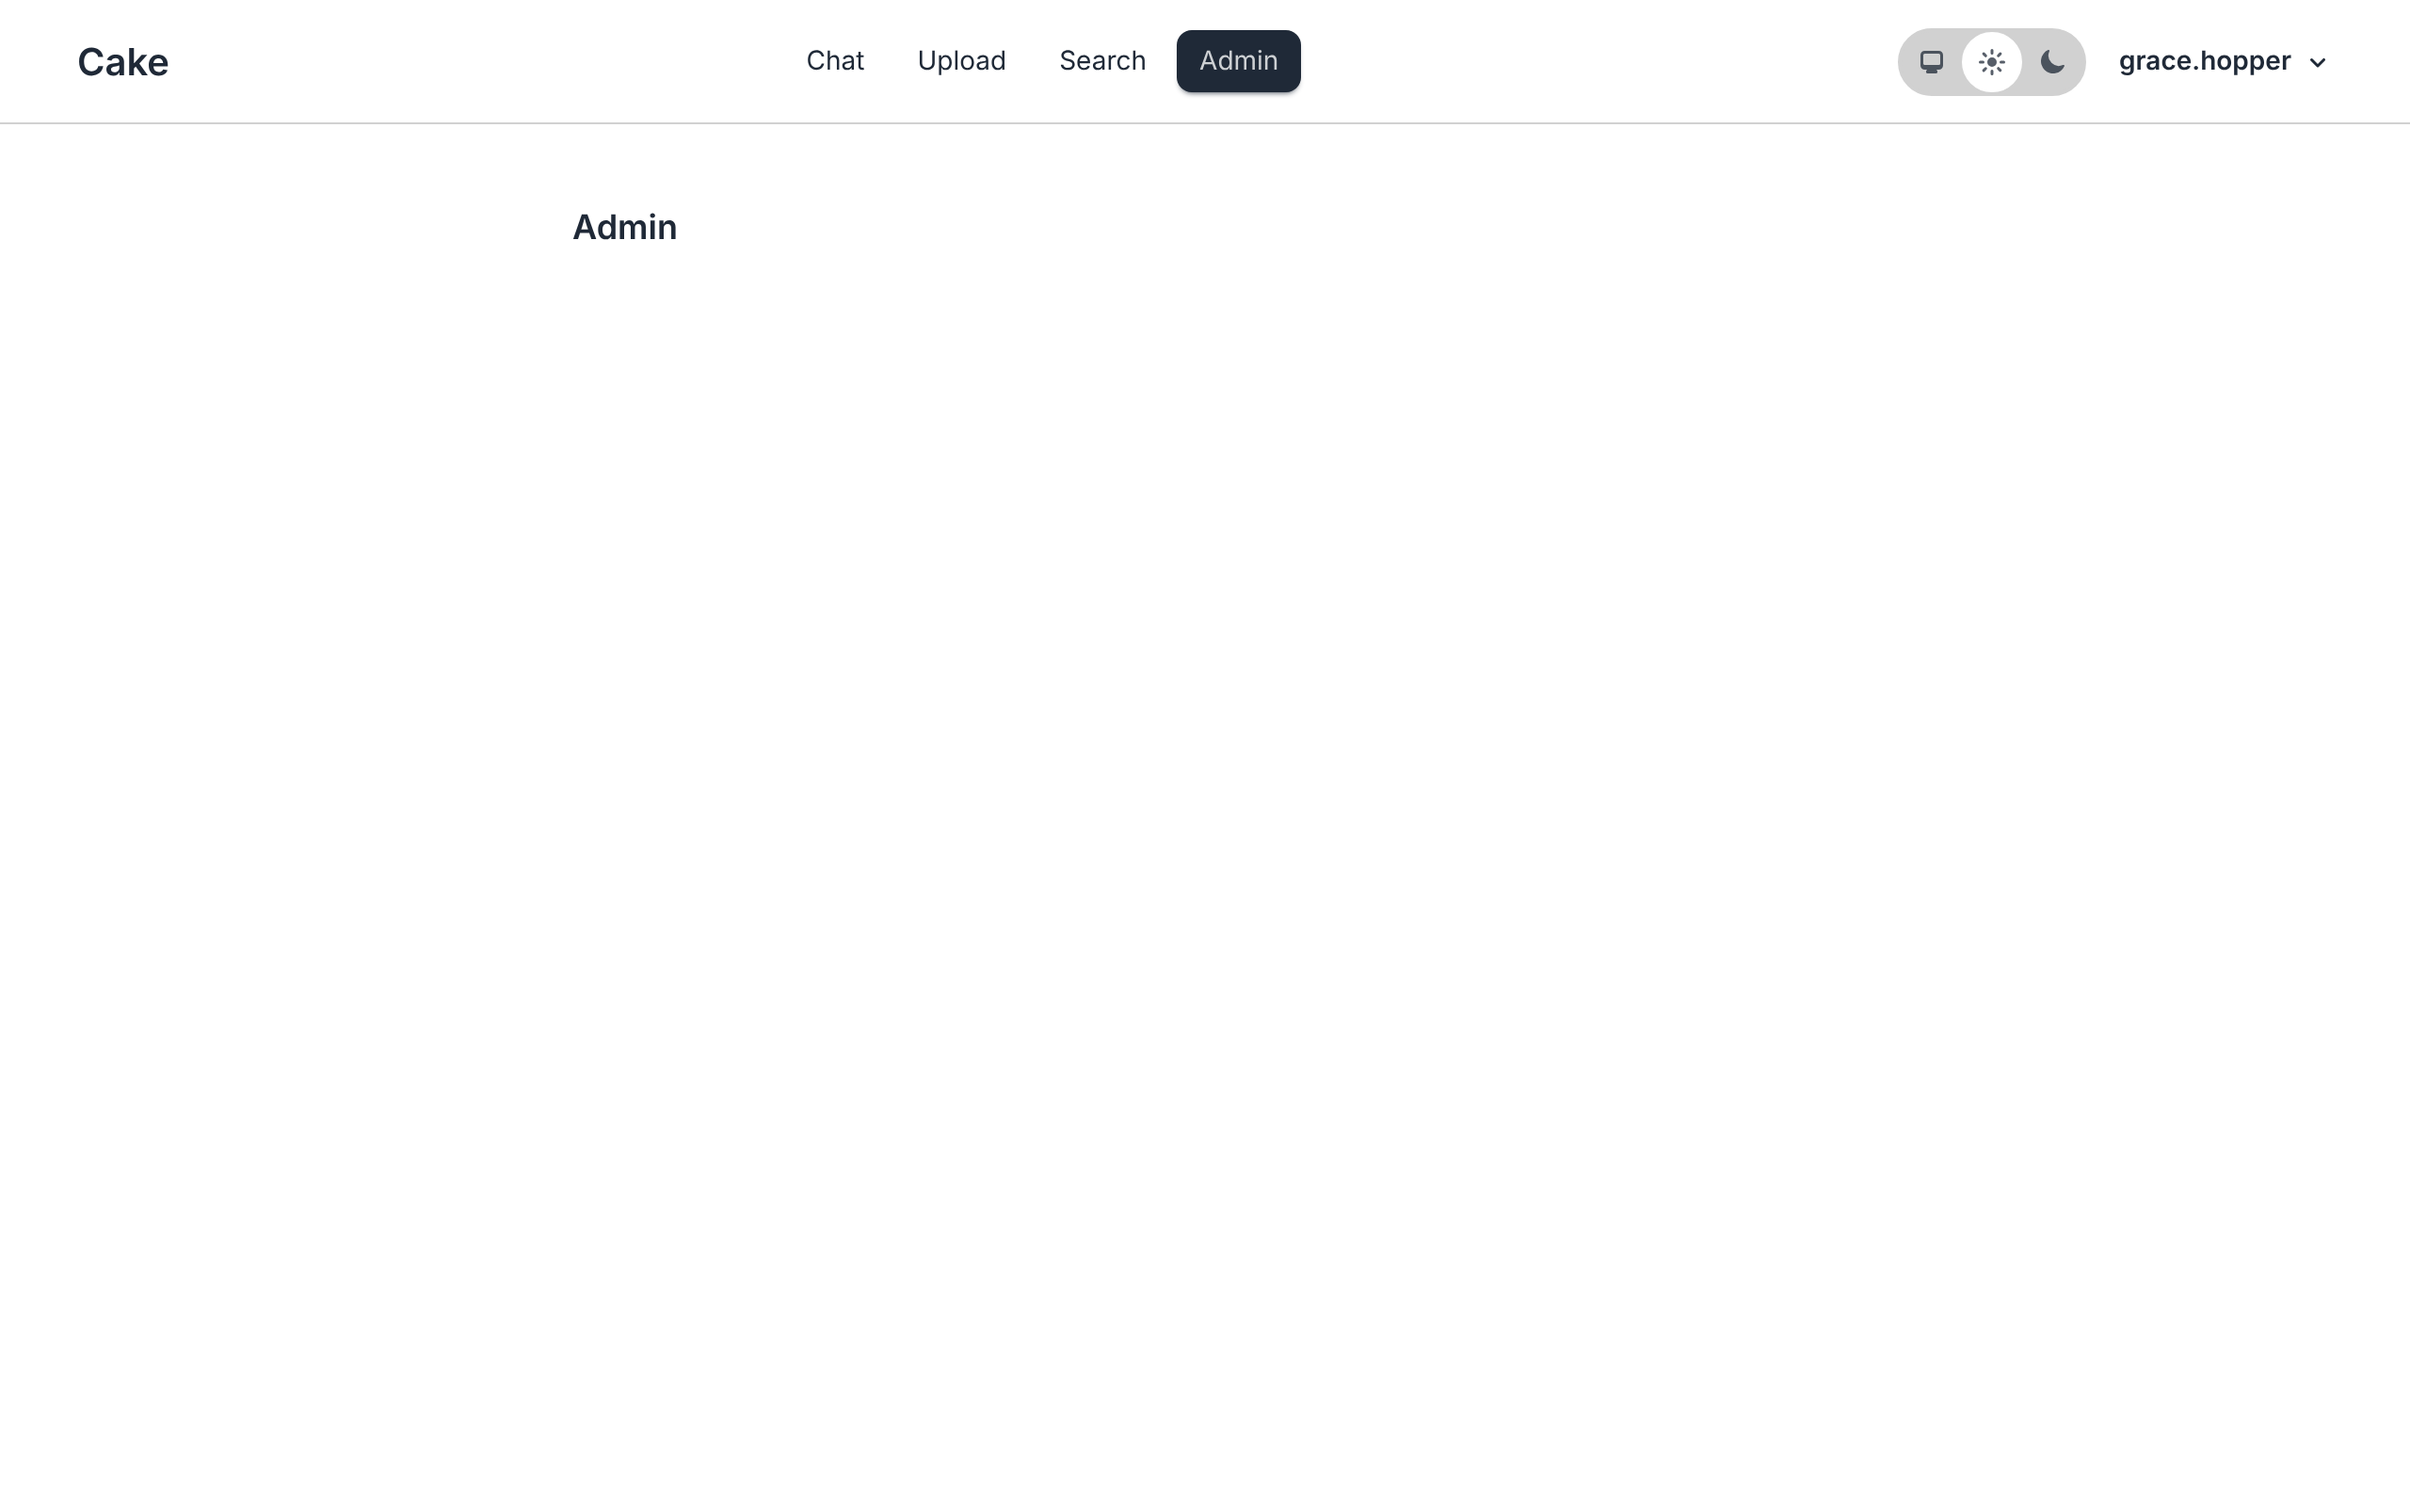
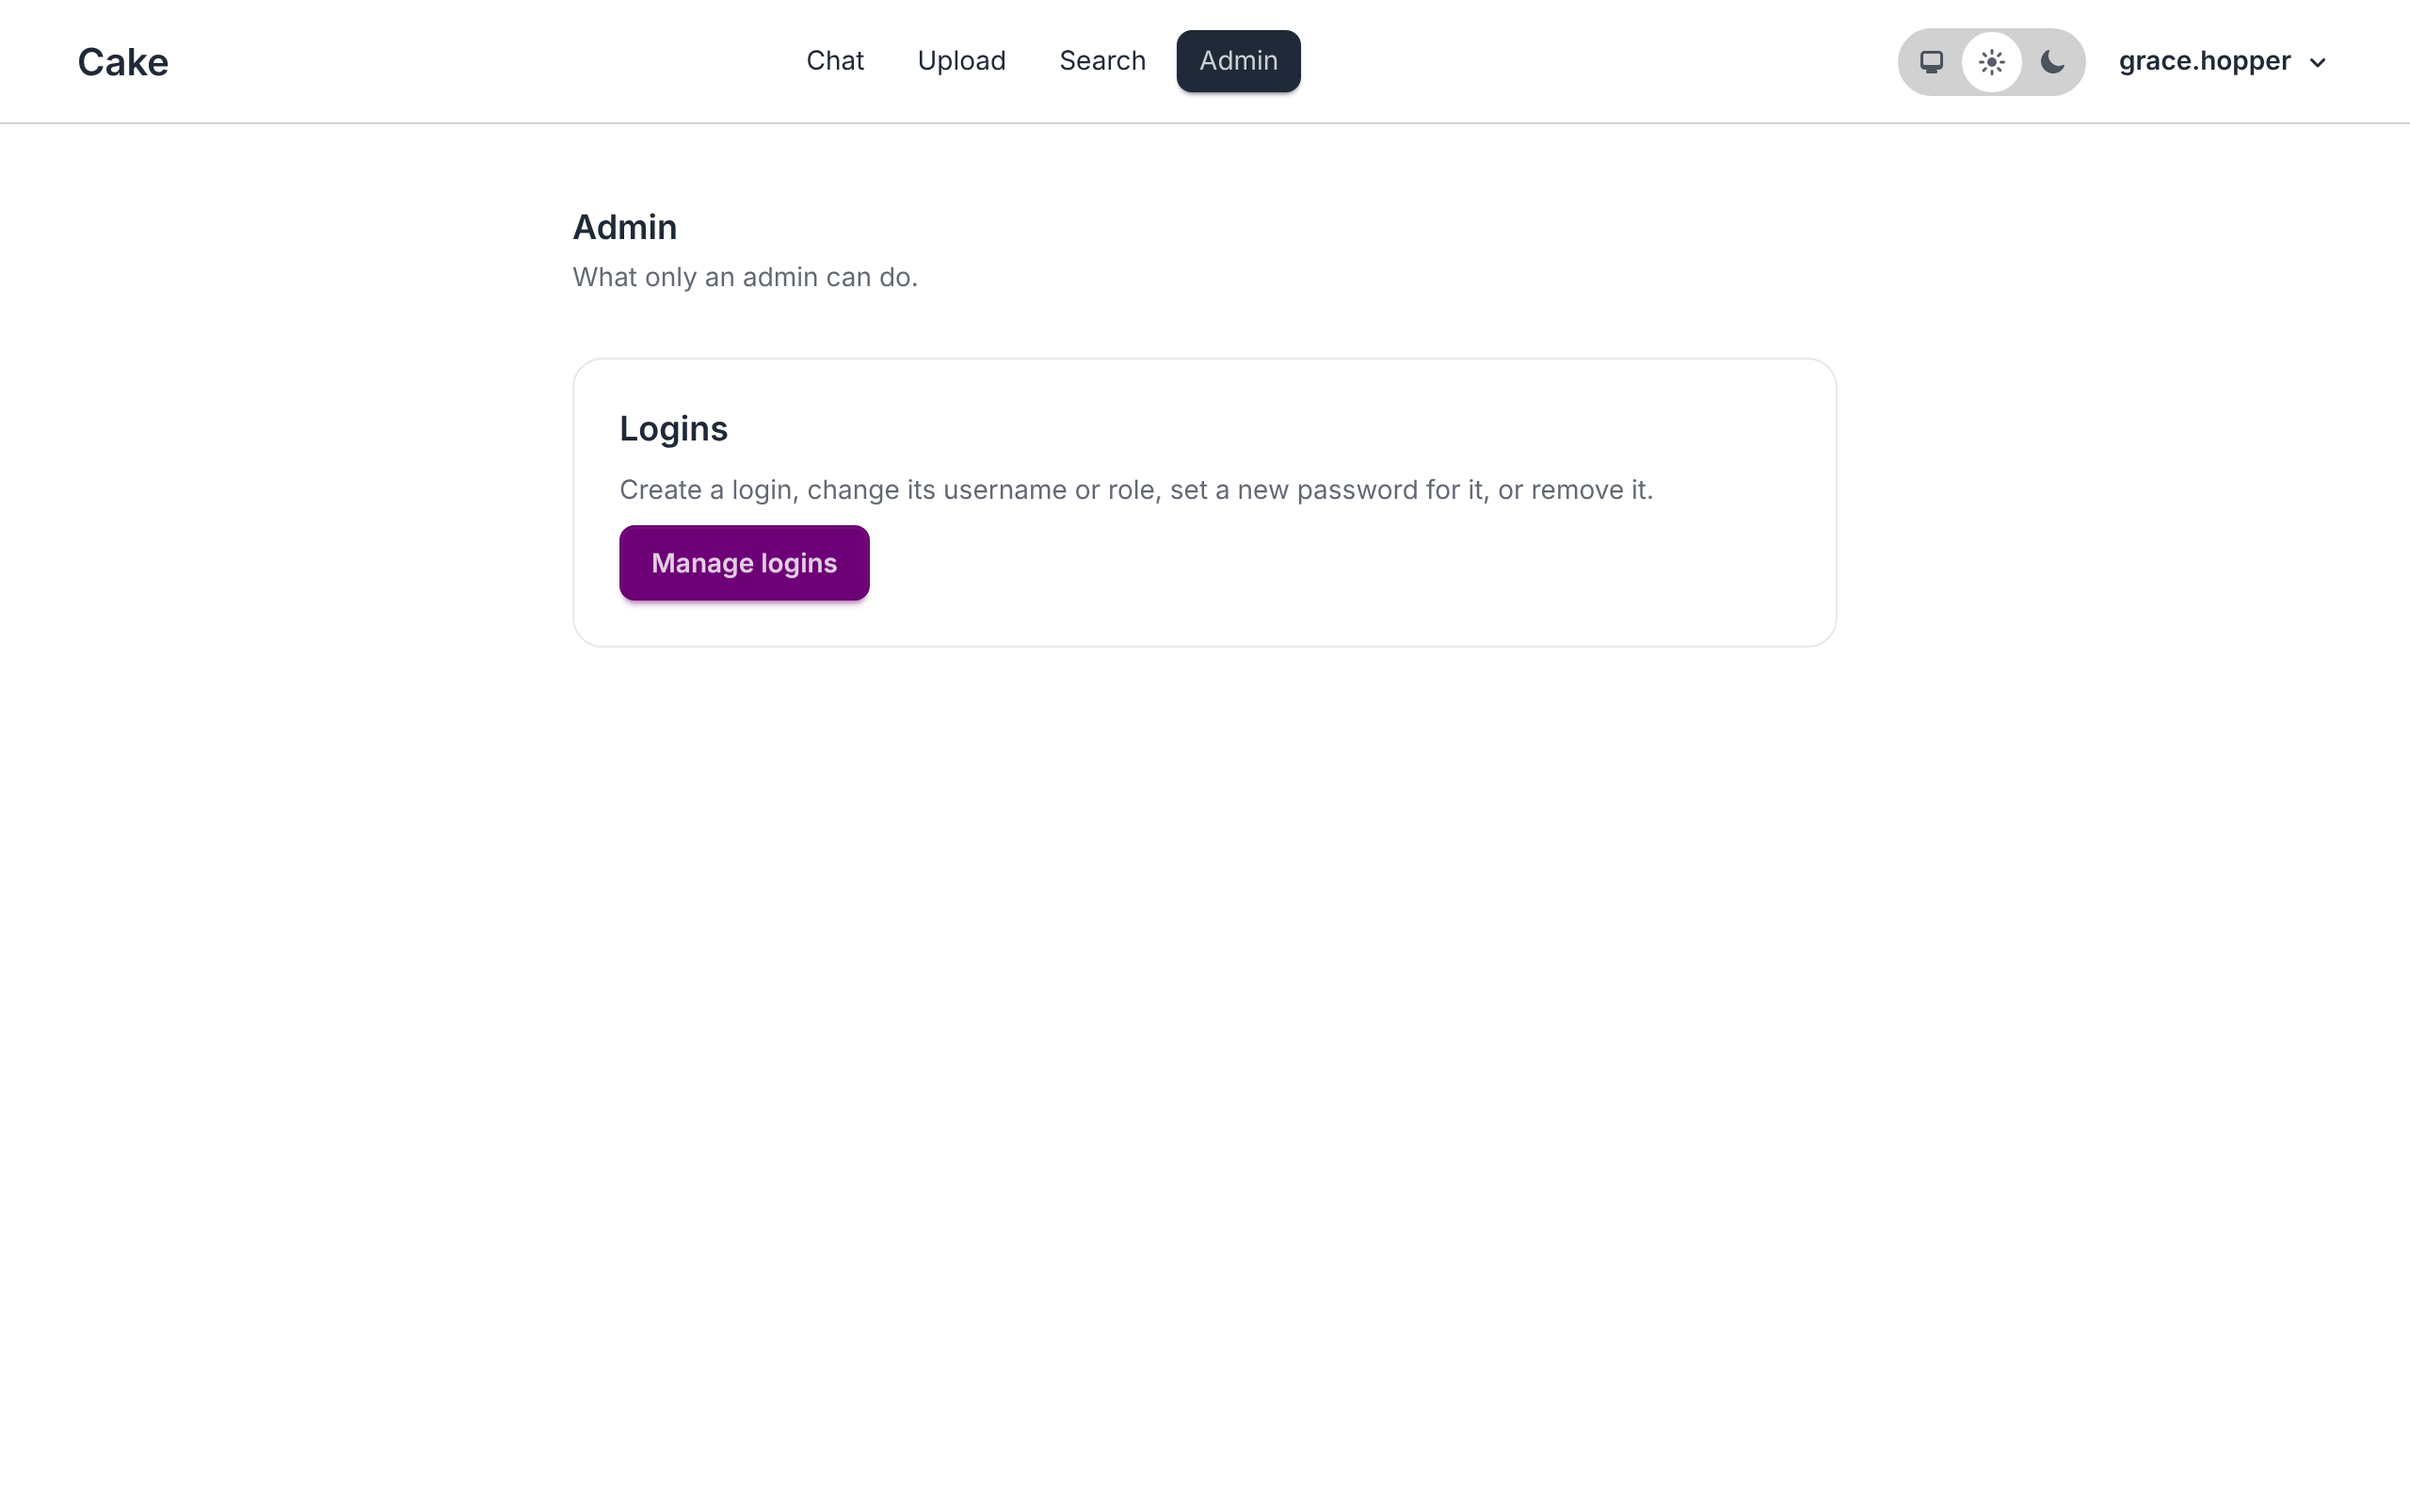
Admin panel: side by side with the reference screenshots (#376, box 7, consistency)
Each screen was put beside `docs/ui-reference/` in both themes and at both
widths. What was checked, and holds:

- width from `Layouts.app` alone: the list in the wide column, the forms,
  a login's page and the landing page in the default one;
- one `header/1` per screen, first in the page;
- one primary button per view ("New login", "Save login", "Set
  password", "Edit", "Manage logins"); the rest `btn-ghost` or
  `btn-outline`; Delete is `btn-error` behind `data-confirm`;
- the list is `table/1`, a login's fields are `list/1`, the landing
  page's entry is a card as the search results are, the list's refusal is
  `notice/1`, and field errors are `input/1`'s own;
- roles are `badge badge-soft` with a theme colour; no palette colour and
  no spacing outside layout utilities; no private copy of a component.

The list is never empty (whoever is looking at it is on it), so it has no
`empty_state/1`.

The landing page changed in box 5, and it is the page the `shell-admin`
reference shots show, so those four are retaken, the same way as before
(an admin made with create_user/1, 1280x800 and 390x844 at twice the
density). The reference README says which page they show.

`.claude/rules/front-end.md` gains the one convention this screen adds: a
table too wide for a phone drops columns with a `class` on the `:col`.

Claude-Session: https://claude.ai/code/session_01MfCjhm1FfnNUSGeztPXV39

Changed region(s): [[0.25, 0.2812, 0.6875, 0.4062], [0.3125, 0.1562, 0.3438, 0.1875]]

diff --git a/.claude/rules/front-end.md b/.claude/rules/front-end.md
@@ -31,7 +31,7 @@ Screens are built by different sessions at different times, and they have to loo
 - **Width.** Content goes straight into `Layouts.app`, which renders it into one column. A form or a page of prose uses the default; a table of records or the chat asks for `width={:wide}`. A screen does not set a width of its own. The chat, upload and account pages still wrap their content in one from before this rule; #376 to #380 remove those as they rebuild each screen.
 - **Heading.** One `<.header>` per screen, first in the page. Its `:subtitle` and `:actions` slots hold the line under it and the buttons beside it.
 - **Buttons.** One primary button per view (`<.button variant="primary">`), for its main action. Secondary actions are `btn btn-ghost` or `btn btn-outline`. A destructive action is `btn btn-error`, behind a confirmation (`data-confirm`).
-- **Records and results.** Tabular records (documents, users) are a `<.table>`; one record's fields are a `<.list>`. Content results (search hits, candidate documents) are cards, as the search screen does them: `card card-border bg-base-100`, a `card-title`, then the detail.
+- **Records and results.** Tabular records (documents, users) are a `<.table>`; one record's fields are a `<.list>`. A table that is too wide for a phone drops columns there, with a `class` on the `:col` (`hidden sm:table-cell`), and keeps the way to the record's own page; it does not scroll sideways. Content results (search hits, candidate documents) are cards, as the search screen does them: `card card-border bg-base-100`, a `card-title`, then the detail.
 - **States.** Nothing to show yet is `<.empty_state>`; work under way is `<.working>`; a message that is part of the page is `<.notice>` with its `kind` (`:info`, `:success`, `:warning`, `:error`). Never a one-off spinner, alert or "nothing here" line. `<.flash>` stays the dismissible message after an action.
 - **Previews.** A preview that opens on hover also opens from the keyboard and by tap: a daisyUI `tooltip` around a focusable element (`tabindex="0"`) that the preview describes (`aria-describedby`, `role="tooltip"`), as the search screen's page chips do.
 - **Chips and badges.** `badge badge-soft` with a semantic colour. A status uses the same colour everywhere: `badge-success` for done, `badge-warning` for under way, `badge-error` for failed, `badge-ghost` for not started.
@@ -54,7 +54,7 @@ Screens are built by different sessions at different times, and they have to loo
 
 | What | From | To update |
 |---|---|---|
-| `core_components.ex`, `layouts.ex`, `layouts/root.html.heex`, `assets/css/app.css`, `assets/js/app.js`, `assets/vendor/heroicons.js`, `assets/vendor/topbar.js`, `assets/tsconfig.json`, the `config :esbuild` and `config :tailwind` blocks | `mix phx.new cake --no-install` with `phx_new` 1.8.16 (#374) | Generate a scratch app outside the repo with the `phx_new` of the new Phoenix version, diff each file against the one here, and carry the generator's changes across by hand. The edits made here are `@spec`s, `header/1`'s `class` attribute, the root layout's title, `app/1` (the generator's placeholder navbar is replaced by Cake's shell, #375), the theme buttons' `aria-label`s, the flash's position (the bottom corner, `toast-bottom`: at the top it covers the account menu and the menu that opens under it), the flash wording the 1.7 `flash_group/1` had (the "Success!" and "Error!" titles, and the server-error notice's text; `CakeWeb.LayoutsTest` pins both), and the LiveView 1.2 features left out. |
+| `core_components.ex`, `layouts.ex`, `layouts/root.html.heex`, `assets/css/app.css`, `assets/js/app.js`, `assets/vendor/heroicons.js`, `assets/vendor/topbar.js`, `assets/tsconfig.json`, the `config :esbuild` and `config :tailwind` blocks | `mix phx.new cake --no-install` with `phx_new` 1.8.16 (#374) | Generate a scratch app outside the repo with the `phx_new` of the new Phoenix version, diff each file against the one here, and carry the generator's changes across by hand. The edits made here are `@spec`s, `header/1`'s `class` attribute, the `class` a `table/1` column can carry (#376), the root layout's title, `app/1` (the generator's placeholder navbar is replaced by Cake's shell, #375), the theme buttons' `aria-label`s, the flash's position (the bottom corner, `toast-bottom`: at the top it covers the account menu and the menu that opens under it), the flash wording the 1.7 `flash_group/1` had (the "Success!" and "Error!" titles, and the server-error notice's text; `CakeWeb.LayoutsTest` pins both), and the LiveView 1.2 features left out. |
 | daisyUI | The Mix dependency `:daisyui` in `mix.exs`: the GitHub repository at a tag, sparse-checked-out to `packages/bundle`, not compiled. `app.css` loads it with `@plugin "daisyui/packages/bundle/daisyui"`. | Change the tag, `mix deps.get`, `mix assets.build`, look at the pages in both themes. |
 | The two themes | Two `daisyui-theme` blocks in `app.css`, named `light` and `dark`: the names the theme toggle, the inline theme script and the `dark:` variant use. Their values are copied from two of daisyUI's own themes as the bundle in `deps/daisyui` defines them: `light` is Fantasy, `dark` is Dracula (#375). | To change a theme, replace a block's values with another daisyUI theme's (the `themes` object in `deps/daisyui/packages/bundle/daisyui.js`, or https://daisyui.com/theme-generator/) and keep the name. After moving the daisyUI tag, compare the two blocks with the bundle's `fantasy` and `dracula`. |
 | heroicons | The Mix dependency `:heroicons`, the same way. `assets/vendor/heroicons.js` turns its SVGs into `hero-*` classes. | Change the tag, `mix deps.get`, `mix assets.build`. |

diff --git a/docs/ui-reference/README.md b/docs/ui-reference/README.md
@@ -12,7 +12,7 @@ Each state is captured four times, as `<state>-<width>-<theme>.png`:
 | `home` | The home page for a visitor: the product name, one sentence, the log-in button. |
 | `shell-member` | The app shell for a member, on the search screen before any search: the top bar's links, the theme toggle, the user menu, a `header/1` and a form with its one primary button. |
 | `shell-member-menu` | Phone width only: the menu the top bar's links collapse into, open. |
-| `shell-admin` | The app shell for an admin: the same, with the Admin link. |
+| `shell-admin` | The app shell for an admin, on the admin landing page: the same, with the Admin link, marked as the current page. |
 | `search-working` | `working/1`: a search in flight. |
 | `search-empty` | `empty_state/1`: a search that finished and found nothing. |
 | `search-error` | `notice/1` of kind `:error`: a search that failed. |
